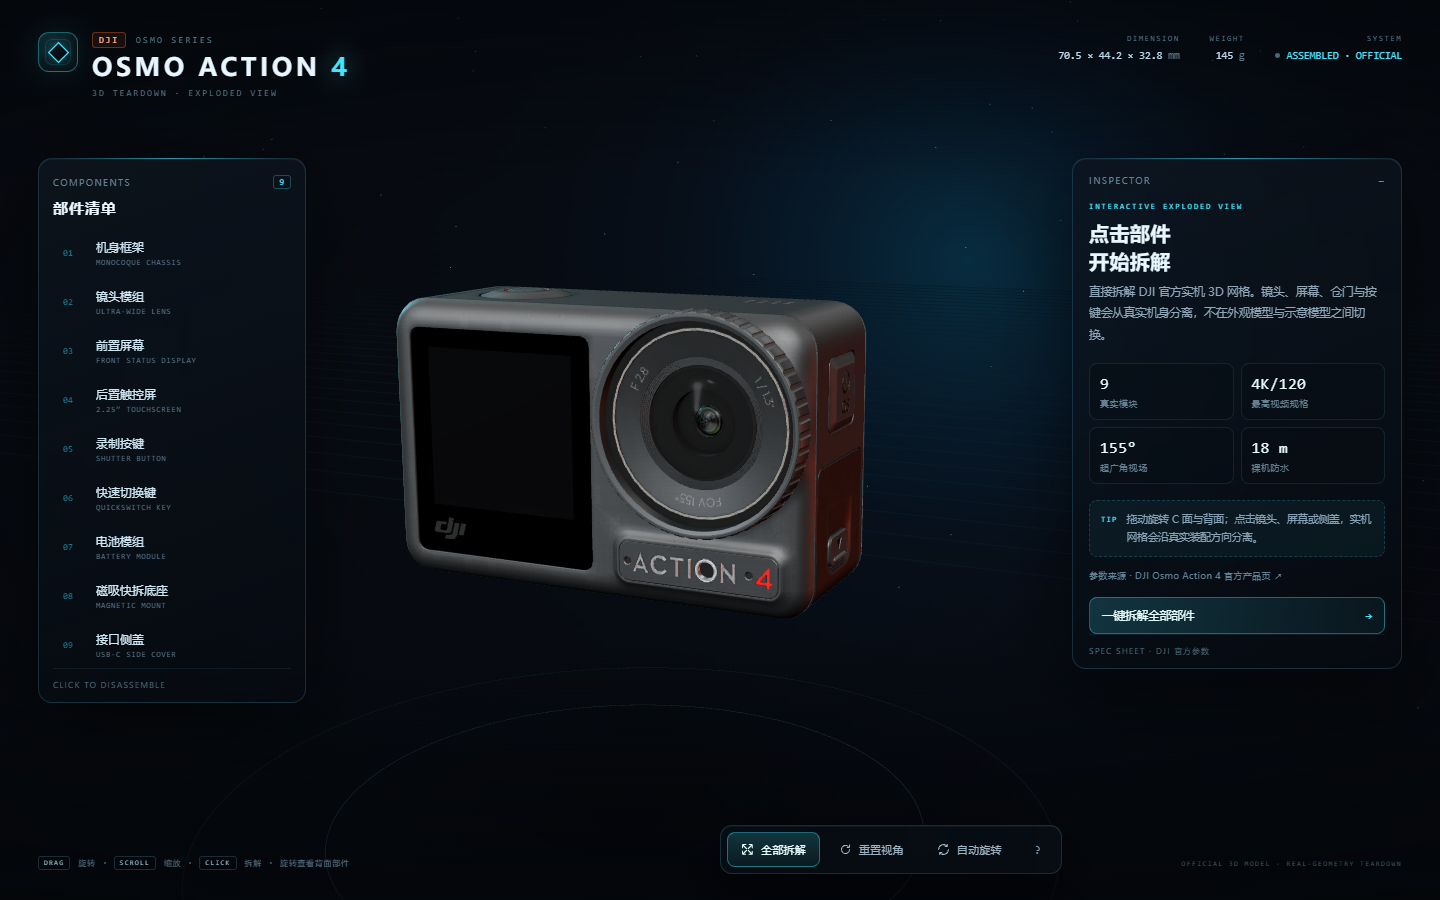
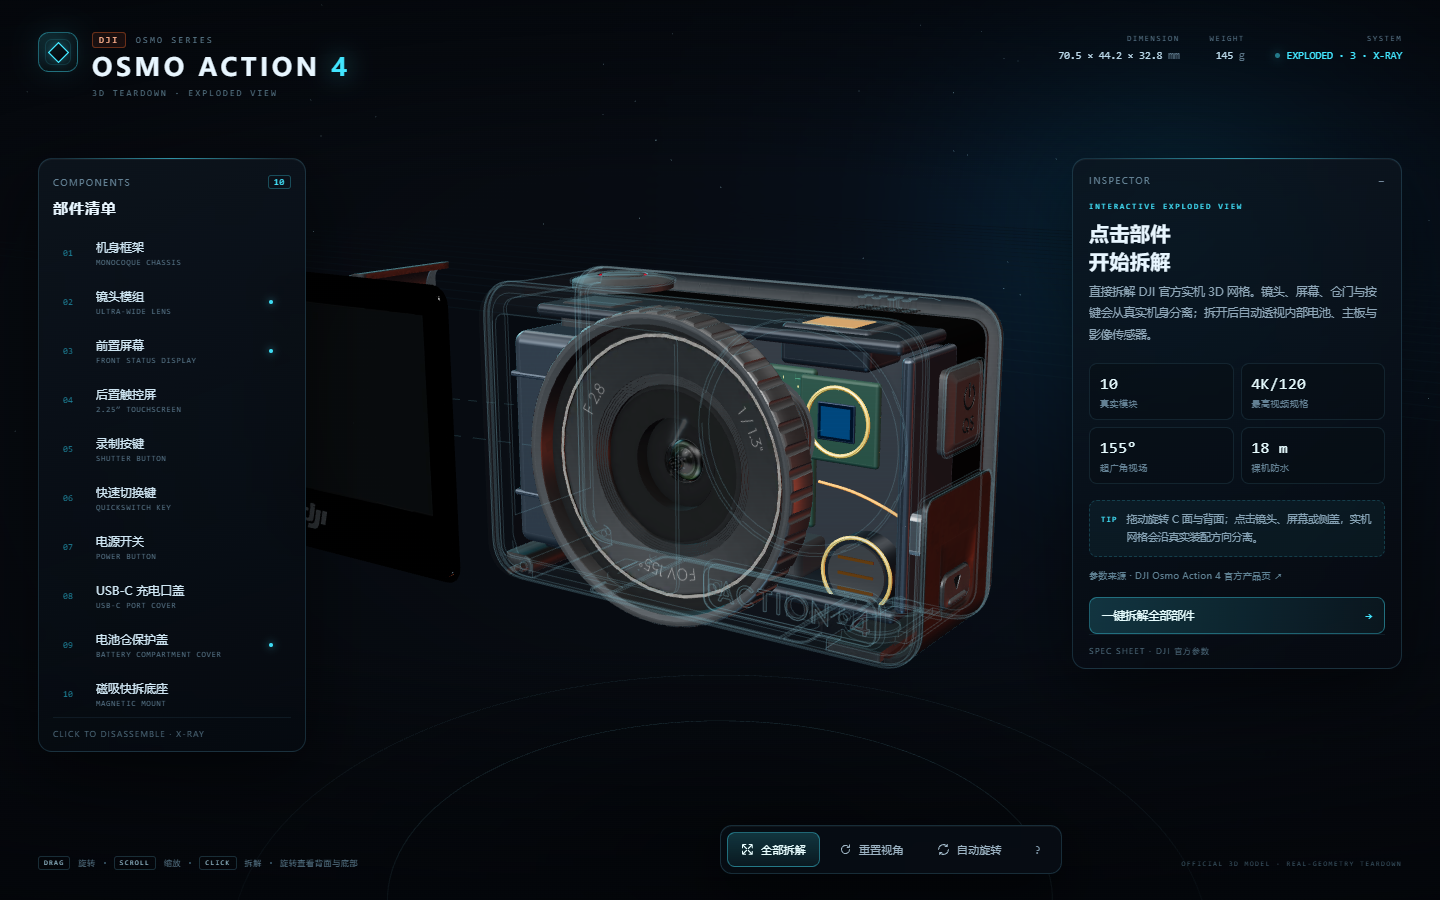
Add reconstructed internal package and X-ray teardown view

diff --git a/index.html b/index.html
@@ -248,7 +248,7 @@ h1 span{color:var(--cyan);text-shadow:0 0 24px rgba(66,230,255,.55)}
     <div class="panel-head"><span>COMPONENTS</span><span class="count" id="partCount">10</span></div>
     <h2>部件清单</h2>
     <div class="part-list" id="partList"></div>
-    <div class="panel-foot">CLICK TO DISASSEMBLE</div>
+    <div class="panel-foot">CLICK TO DISASSEMBLE · X-RAY</div>
   </aside>
 
   <section class="panel detail" id="detailPanel">
@@ -292,7 +292,7 @@ h1 span{color:var(--cyan);text-shadow:0 0 24px rgba(66,230,255,.55)}
       <div class="help-grid">
         <div><span class="mono">01</span><b>旋转视角</b><p>在模型上按住左键拖动，围绕机身自由观察。</p></div>
         <div><span class="mono">02</span><b>缩放 / 平移</b><p>滚轮缩放，右键拖动平移，推近查看镜头细节。</p></div>
-        <div><span class="mono">03</span><b>点击拆解</b><p>点击任意部件触发拆解动画，同时高亮并显示参数。</p></div>
+      <div><span class="mono">03</span><b>点击拆解</b><p>点击部件触发拆解并显示参数。拆开镜头、屏幕或仓盖后，外壳会自动转为 X-RAY 透视，露出内部电池、主板与传感器。</p></div>
         <div><span class="mono">04</span><b>快捷操作</b><p>空格：全部拆解 / 组装 · R：重置视角 · A：自动旋转 · ESC：取消选中</p></div>
       </div>
       <button class="modal-btn" id="btnHelpClose">开始探索</button>
@@ -786,6 +786,10 @@ let realModelReady = false;
 let realModulesReady = false;
 let assetSettled = false;
 let loadFailed = false;
+let shellReveal = 1;
+let shellRevealTarget = 1;
+const shellMaterials = [];
+let shellGhostMat = null;
 const M = (o) => new THREE.MeshStandardMaterial(o);
 const P = (o) => new THREE.MeshPhysicalMaterial(o);
 function add(g, geo, mat, x=0, y=0, z=0, rx=0, ry=0, rz=0){
@@ -1046,6 +1050,139 @@ function buildSideCover(){
   return g;
 }
 
+function buildInnerAssembly(){
+  const g = new THREE.Group();
+  g.name = 'internalAssembly';
+
+  const chassisMat = M({color:0x151b21, metalness:0.58, roughness:0.48, roughnessMap:noiseTex, envMapIntensity:1.2});
+  const chassisEdgeMat = M({color:0x343c44, metalness:0.82, roughness:0.3, envMapIntensity:1.25});
+  const graphiteMat = M({color:0x101419, metalness:0.4, roughness:0.68});
+  const boardMat = M({color:0x07251a, metalness:0.28, roughness:0.5, envMapIntensity:1.1});
+  const chipMat = M({color:0x06090c, metalness:0.58, roughness:0.3});
+  const shieldMat = M({color:0x9da7ae, metalness:1, roughness:0.25, envMapIntensity:1.5});
+  const copperMat = M({color:0xb46f35, metalness:0.95, roughness:0.33, emissive:0x2b1105, emissiveIntensity:0.16, envMapIntensity:1.3});
+  const goldMat = M({color:0xc59a47, metalness:1, roughness:0.24, envMapIntensity:1.6});
+  const flexMat = M({color:0xc46a28, metalness:0.28, roughness:0.58, emissive:0x2b1004, emissiveIntensity:0.18});
+  const rubberMat = M({color:0x080a0d, metalness:0.08, roughness:0.86});
+  const screwMat = M({color:0x59636c, metalness:1, roughness:0.24, envMapIntensity:1.5});
+  const cellMat = M({color:0x262c32, metalness:0.46, roughness:0.4, roughnessMap:noiseTex, envMapIntensity:1.2});
+
+  add(g, new RoundedBoxGeometry(1.24,0.69,0.034,4,0.025), graphiteMat, 0,-0.005,-0.177);
+  add(g, new RoundedBoxGeometry(0.96,0.48,0.008,3,0.012), copperMat, 0.02,0.015,-0.198);
+  add(g, new RoundedBoxGeometry(0.76,0.34,0.006,2,0.01), graphiteMat, 0.02,0.015,-0.204);
+  for(const x of [-0.50,0.52]) for(const y of [-0.27,0.29]){
+    add(g, new THREE.CylinderGeometry(0.012,0.012,0.009,16), screwMat, x,y,-0.197, Math.PI/2,0,0);
+  }
+
+  add(g, new RoundedBoxGeometry(1.24,0.038,0.28,3,0.016), chassisMat, 0,0.365,-0.055);
+  add(g, new RoundedBoxGeometry(1.24,0.038,0.28,3,0.016), chassisMat, 0,-0.374,-0.055);
+  add(g, new RoundedBoxGeometry(0.035,0.70,0.28,3,0.014), chassisEdgeMat, 0.635,-0.005,-0.055);
+  add(g, new RoundedBoxGeometry(0.022,0.62,0.24,3,0.009), chassisEdgeMat, -0.272,0.005,-0.045);
+  add(g, new RoundedBoxGeometry(0.20,0.028,0.24,3,0.012), chassisEdgeMat, -0.18,-0.345,-0.045);
+  add(g, new RoundedBoxGeometry(0.20,0.028,0.24,3,0.012), chassisEdgeMat, -0.18,0.336,-0.045);
+
+  add(g, new RoundedBoxGeometry(0.30,0.66,0.40,5,0.036), cellMat, -0.475,-0.015,-0.005);
+  add(g, new RoundedBoxGeometry(0.286,0.64,0.384,5,0.032), graphiteMat, -0.475,-0.015,-0.005);
+  add(g, new RoundedBoxGeometry(0.31,0.018,0.405,3,0.008), chassisEdgeMat, -0.475,0.185,-0.005);
+  add(g, new RoundedBoxGeometry(0.31,0.018,0.405,3,0.008), chassisEdgeMat, -0.475,-0.185,-0.005);
+  const batteryLabel = new THREE.Mesh(new THREE.PlaneGeometry(0.28,0.28),
+    new THREE.MeshBasicMaterial({map:batteryTex, toneMapped:false}));
+  batteryLabel.rotation.y = -Math.PI/2;
+  batteryLabel.position.set(-0.626,0.02,-0.005);
+  g.add(batteryLabel);
+  for(const z of [-0.12,0,0.12]){
+    add(g, new THREE.BoxGeometry(0.014,0.078,0.026), goldMat, -0.314,0.245,z);
+  }
+  add(g, new RoundedBoxGeometry(0.10,0.045,0.14,2,0.01), rubberMat, -0.30,-0.245,0.105);
+  add(g, new THREE.BoxGeometry(0.008,0.012,0.072), flexMat, -0.294,-0.245,0.105);
+
+  add(g, new RoundedBoxGeometry(0.54,0.46,0.026,4,0.015), boardMat, 0.04,0.035,-0.022);
+  const boardFace = new THREE.Mesh(new THREE.PlaneGeometry(0.505,0.425),
+    M({map:pcbTex, roughness:0.46, metalness:0.16, emissive:0x06170f, emissiveIntensity:0.4, envMapIntensity:1.25}));
+  boardFace.position.set(0.04,0.035,-0.008);
+  g.add(boardFace);
+  add(g, new RoundedBoxGeometry(0.18,0.17,0.026,3,0.009), shieldMat, 0.015,0.075,0.009);
+  add(g, new RoundedBoxGeometry(0.11,0.095,0.009,2,0.004), chipMat, 0.012,0.078,0.027);
+  add(g, new RoundedBoxGeometry(0.075,0.06,0.007,2,0.003), chipMat, 0.21,0.148,0.019);
+  add(g, new RoundedBoxGeometry(0.09,0.07,0.012,2,0.004), shieldMat, 0.245,0.155,0.007);
+  add(g, new RoundedBoxGeometry(0.13,0.062,0.012,2,0.004), chipMat, 0.13,-0.145,0.01);
+  add(g, new RoundedBoxGeometry(0.075,0.048,0.009,2,0.003), chipMat, -0.105,-0.15,0.008);
+  add(g, new RoundedBoxGeometry(0.023,0.20,0.006,2,0.002), flexMat, 0.296,-0.03,0.004);
+  add(g, new RoundedBoxGeometry(0.055,0.028,0.008,2,0.003), goldMat, -0.18,0.205,0.009);
+  const boardMark = makeTextPlane('DJI · ACT4', {w:0.13,h:0.026,size:56,color:'#9bc7b4',opacity:0.62});
+  boardMark.position.set(0.07,-0.08,0.009);
+  g.add(boardMark);
+
+  add(g, new RoundedBoxGeometry(0.245,0.235,0.022,4,0.015), boardMat, 0.432,0.15,0.065);
+  add(g, new RoundedBoxGeometry(0.225,0.215,0.026,3,0.014), copperMat, 0.432,0.15,0.047);
+  const sensorRing = new THREE.Mesh(new THREE.TorusGeometry(0.094,0.006,10,56), goldMat);
+  sensorRing.position.set(0.432,0.15,0.079);
+  g.add(sensorRing);
+  add(g, new RoundedBoxGeometry(0.115,0.105,0.008,3,0.004), M({color:0x071828, metalness:0.62, roughness:0.18, envMapIntensity:1.8}), 0.432,0.15,0.084);
+  const sensorGlass = new THREE.Mesh(new THREE.PlaneGeometry(0.09,0.082),
+    P({color:0x0b2b46, transparent:true, opacity:0.72, metalness:0.05, roughness:0.04, clearcoat:1, envMapIntensity:2}));
+  sensorGlass.position.set(0.432,0.15,0.09);
+  g.add(sensorGlass);
+  add(g, new RoundedBoxGeometry(0.09,0.036,0.024,2,0.007), goldMat, 0.355,0.15,0.061);
+  add(g, new RoundedBoxGeometry(0.08,0.026,0.012,2,0.004), flexMat, 0.32,0.105,0.052);
+
+  add(g, new RoundedBoxGeometry(0.065,0.115,0.16,3,0.017), shieldMat, 0.665,-0.132,-0.01);
+  add(g, new RoundedBoxGeometry(0.042,0.078,0.122,2,0.014), rubberMat, 0.682,-0.132,-0.01);
+  add(g, new RoundedBoxGeometry(0.012,0.038,0.085,2,0.004), chipMat, 0.695,-0.132,-0.01);
+  for(const y of [-0.153,-0.132,-0.111]){
+    add(g, new THREE.BoxGeometry(0.005,0.007,0.07), goldMat, 0.704,y,-0.01);
+  }
+
+  add(g, new RoundedBoxGeometry(0.28,0.115,0.20,3,0.018), chassisMat, 0.36,0.338,-0.065);
+  add(g, new RoundedBoxGeometry(0.22,0.072,0.17,2,0.012), copperMat, 0.36,0.345,-0.052);
+  add(g, new RoundedBoxGeometry(0.17,0.026,0.14,2,0.008), flexMat, 0.36,0.385,-0.052);
+  for(const y of [-0.028,0,0.028]){
+    add(g, new THREE.BoxGeometry(0.14,0.004,0.004), goldMat, 0.36,0.345+y,-0.137);
+  }
+  add(g, new RoundedBoxGeometry(0.21,0.105,0.17,3,0.018), rubberMat, -0.46,0.337,-0.045);
+  add(g, new RoundedBoxGeometry(0.42,0.10,0.16,3,0.02), rubberMat, 0.07,-0.306,-0.072);
+  add(g, new RoundedBoxGeometry(0.32,0.055,0.13,3,0.014), copperMat, 0.04,-0.286,-0.055);
+
+  add(g, new THREE.CylinderGeometry(0.105,0.105,0.075,40), chassisMat, 0.48,-0.285,-0.005, Math.PI/2,0,0);
+  add(g, new THREE.CylinderGeometry(0.088,0.088,0.012,40), rubberMat, 0.48,-0.285,0.037, Math.PI/2,0,0);
+  add(g, new THREE.TorusGeometry(0.106,0.006,8,40), goldMat, 0.48,-0.285,0.04, 0,0,Math.PI/2);
+  for(const y of [-0.045,0,0.045]){
+    add(g, new THREE.BoxGeometry(0.11,0.008,0.006), goldMat, 0.48,-0.285+y,0.044);
+  }
+  for(const x of [-0.34,-0.43,-0.52]){
+    add(g, new THREE.CylinderGeometry(0.017,0.017,0.028,20), rubberMat, x,-0.343,0.02, Math.PI/2,0,0);
+    add(g, new THREE.CylinderGeometry(0.007,0.007,0.031,16), M({color:0x161c21, metalness:0.4, roughness:0.7}), x,-0.343,0.021, Math.PI/2,0,0);
+  }
+  add(g, new THREE.BoxGeometry(0.026,0.012,0.008),
+    M({color:0x3ee5ff, emissive:0x29d5ed, emissiveIntensity:2.4, metalness:0.2, roughness:0.2}),
+    0.275,0.132,0.015);
+
+  const addFlex = (pts, radius=0.005) => {
+    const curve = new THREE.CatmullRomCurve3(pts.map(p=>new THREE.Vector3(p[0],p[1],p[2])));
+    add(g, new THREE.TubeGeometry(curve,30,radius,6,false), flexMat);
+  };
+  addFlex([[-0.305,-0.24,0.10],[-0.24,-0.20,0.07],[-0.14,-0.12,0.025],[-0.10,-0.11,0.005]],0.0055);
+  addFlex([[0.31,0.105,0.05],[0.30,0.08,0.035],[0.28,0.06,0.016],[0.27,0.045,0.008]],0.0045);
+  addFlex([[0.64,-0.12,0.025],[0.56,-0.08,0.035],[0.45,-0.055,0.02],[0.34,-0.045,0.012]],0.0045);
+  addFlex([[-0.24,0.20,0.00],[-0.18,0.24,0.01],[-0.06,0.23,0.012],[0.04,0.19,0.01]],0.0038);
+  addFlex([[-0.24,0.19,-0.07],[-0.12,0.22,-0.09],[0.05,0.20,-0.085],[0.13,0.16,-0.06]],0.0035);
+
+  const sdCard = add(g, new RoundedBoxGeometry(0.105,0.012,0.07,2,0.005),
+    M({color:0x252b30, metalness:0.45, roughness:0.42}), -0.195,0.205,0.06);
+  sdCard.rotation.y = 0.12;
+  add(g, new RoundedBoxGeometry(0.026,0.014,0.06,2,0.004), goldMat, -0.25,0.205,0.06);
+  for(const x of [-0.57,0.32]){
+    add(g, new THREE.CylinderGeometry(0.011,0.011,0.008,16), screwMat, x,0.315,-0.015, Math.PI/2,0,0);
+  }
+
+  g.traverse(o=>{
+    if(!o.isMesh) return;
+    o.raycast = ()=>{};
+    o.userData.internal = true;
+  });
+  return g;
+}
+
 const builders = {
   frame:buildFrame, lens:buildLens, sensor:buildSensor, frontScreen:buildFrontScreen,
   rearScreen:buildRearScreen, record:buildRecord, qs:buildQS, battery:buildBattery,
@@ -1217,7 +1354,7 @@ function showOverview(){
   detailBody.innerHTML =
     '<div class="ov-kicker">INTERACTIVE EXPLODED VIEW</div>'+
     '<h3 class="ov-title">点击部件<br/>开始拆解</h3>'+
-    '<p class="ov-sub">直接拆解 DJI 官方实机 3D 网格。镜头、屏幕、仓门与按键会从真实机身分离，不在外观模型与示意模型之间切换。</p>'+
+    '<p class="ov-sub">直接拆解 DJI 官方实机 3D 网格。镜头、屏幕、仓门与按键会从真实机身分离；拆开后自动透视内部电池、主板与影像传感器。</p>'+
     '<div class="ov-stats">'+
       '<div class="ov-stat"><b>10</b><span>真实模块</span></div>'+
       '<div class="ov-stat"><b>4K/120</b><span>最高视频规格</span></div>'+
@@ -1259,7 +1396,11 @@ function showDetail(id){
 function refreshUI(){
   const open = ORDER.filter(id=>partState[id].exploded).length;
   const total = ORDER.filter(id=>partState[id].offset.lengthSq() > 0.0001).length;
-  const label = open === 0 ? 'ASSEMBLED · OFFICIAL' : (open >= total ? 'FULL TEARDOWN' : 'EXPLODED · ' + open);
+  const exposed = ['lens','frontScreen','rearScreen','batteryCover','portCover']
+    .filter(id=>partState[id]?.exploded).length;
+  shellRevealTarget = exposed ? (exposed >= 5 ? 0.018 : 0.03) : 1;
+  const label = open === 0 ? 'ASSEMBLED · OFFICIAL' :
+    (open >= total ? 'FULL TEARDOWN' : 'EXPLODED · ' + open) + (exposed ? ' · X-RAY' : '');
   statusEl.innerHTML = '<em class="'+(open ? 'on' : '')+'"></em>' + label;
   const btnLabel = document.querySelector('#btnExplode span');
   if(btnLabel) btnLabel.textContent = open >= total ? '全部组装' : '全部拆解';
@@ -1647,10 +1788,10 @@ function updateLabels(){
       const hits = labelRay.intersectObject(activeModel, true);
       let blocked = false;
       for(const h of hits){
-        if(h.object.isMesh){
-          blocked = h.object.userData.partId !== id;
-          break;
-        }
+        if(!h.object.isMesh) continue;
+        if(h.object.userData.partId === 'frame' && shellRevealTarget < 0.9) continue;
+        blocked = h.object.userData.partId !== id;
+        break;
       }
       p.occluded = blocked;
     }
@@ -1755,6 +1896,49 @@ function updateHalo(dt){
   halo.material.opacity += (target - halo.material.opacity) * (1 - Math.exp(-8 * dt));
 }
 
+function prepareShellMaterials(){
+  const shell = realModelGroup.getObjectByName('real_frame');
+  if(!shell) return;
+  shellGhostMat = new THREE.LineBasicMaterial({
+    color:0x77aebd, transparent:true, opacity:0, depthWrite:false, depthTest:false, toneMapped:false
+  });
+  shell.traverse(o=>{
+    if(!o.isMesh) return;
+    const source = Array.isArray(o.material) ? o.material : [o.material];
+    const copies = source.map(m=>{
+      const c = m.clone();
+      shellMaterials.push({
+        mat:c,
+        baseOpacity:m.opacity === undefined ? 1 : m.opacity,
+        baseTransparent:m.transparent,
+        baseDepthWrite:m.depthWrite,
+        ghost:false
+      });
+      return c;
+    });
+    o.material = Array.isArray(o.material) ? copies : copies[0];
+    const edges = new THREE.EdgesGeometry(o.geometry, 34);
+    const ghost = new THREE.LineSegments(edges, shellGhostMat);
+    ghost.raycast = ()=>{};
+    ghost.renderOrder = 3;
+    o.add(ghost);
+  });
+}
+
+function updateShellReveal(dt){
+  shellReveal += (shellRevealTarget - shellReveal) * (1 - Math.exp(-5.5 * dt));
+  const ghost = shellReveal < 0.995;
+  for(const item of shellMaterials){
+    item.mat.opacity = item.baseOpacity * (ghost ? Math.max(0.012, shellReveal) : 1);
+    if(item.ghost === ghost) continue;
+    item.ghost = ghost;
+    item.mat.transparent = ghost || item.baseTransparent;
+    item.mat.depthWrite = ghost ? false : item.baseDepthWrite;
+    item.mat.needsUpdate = true;
+  }
+  if(shellGhostMat) shellGhostMat.opacity = ghost ? Math.min(0.22, (1 - shellReveal) * 0.24) : 0;
+}
+
 const clock = new THREE.Clock();
 let firstFrame = true;
 function animate(){
@@ -1764,6 +1948,7 @@ function animate(){
   updateExplosion(dt);
   updateHighlights(dt);
   updateHalo(dt);
+  updateShellReveal(dt);
   model.position.y = 0.02 + Math.sin(elapsed * 0.7) * 0.008;
   if(realModelGroup.visible) realModelGroup.position.y = 0.02 + Math.sin(elapsed * 0.7) * 0.008;
   stars.rotation.y += dt * 0.012;
@@ -1879,6 +2064,7 @@ function setupRealModules(root){
     mesh.raycast = THREE.Mesh.prototype.raycast;
   }
 
+  prepareShellMaterials();
   realModelGroup.updateMatrixWorld(true);
   const anchorNudge = {
     frame:[0,0.34,0], lens:[0,0.02,0.06], frontScreen:[0,0,0.03],
@@ -1954,6 +2140,7 @@ function finishRealLoad(gltf){
   root.scale.setScalar(scale);
   root.position.set(-center.x * scale, -center.y * scale, -center.z * scale);
   realModelGroup.add(root);
+  realModelGroup.add(buildInnerAssembly());
   setupRealModules(root);
   assetSettled = true;
   loadFailed = false;

diff --git a/README.md b/README.md
@@ -2,6 +2,8 @@
 
 基于 DJI 官方 Osmo Action 4 3D 模型制作的交互式拆解页面。镜头、前后屏、电池仓保护盖、USB-C 充电口盖、电源键、顶部按键与磁吸底座均为实机网格，可直接点击拆装。
 
+内部电池、主板、影像传感器、扬声器与接口组件为按实机比例重建的展示结构，用于拆解后的内部透视。
+
 ![预览](preview.png)
 
 ## 在线预览
@@ -22,6 +24,7 @@ python -m http.server 8765
 
 - 官方 GLB 实机外观，非程序化近似模型
 - 10 个真实外观模块，一键拆解 / 组装
+- 拆开后自动进入 X-RAY 内胆视图，显示 1770 mAh 电池、主板、CMOS 传感器、扬声器与接口组件
 - 点击或悬停部件查看参数
 - 桌面与移动端适配
 - Three.js 与模型资源均随仓库提供，不依赖 CDN
